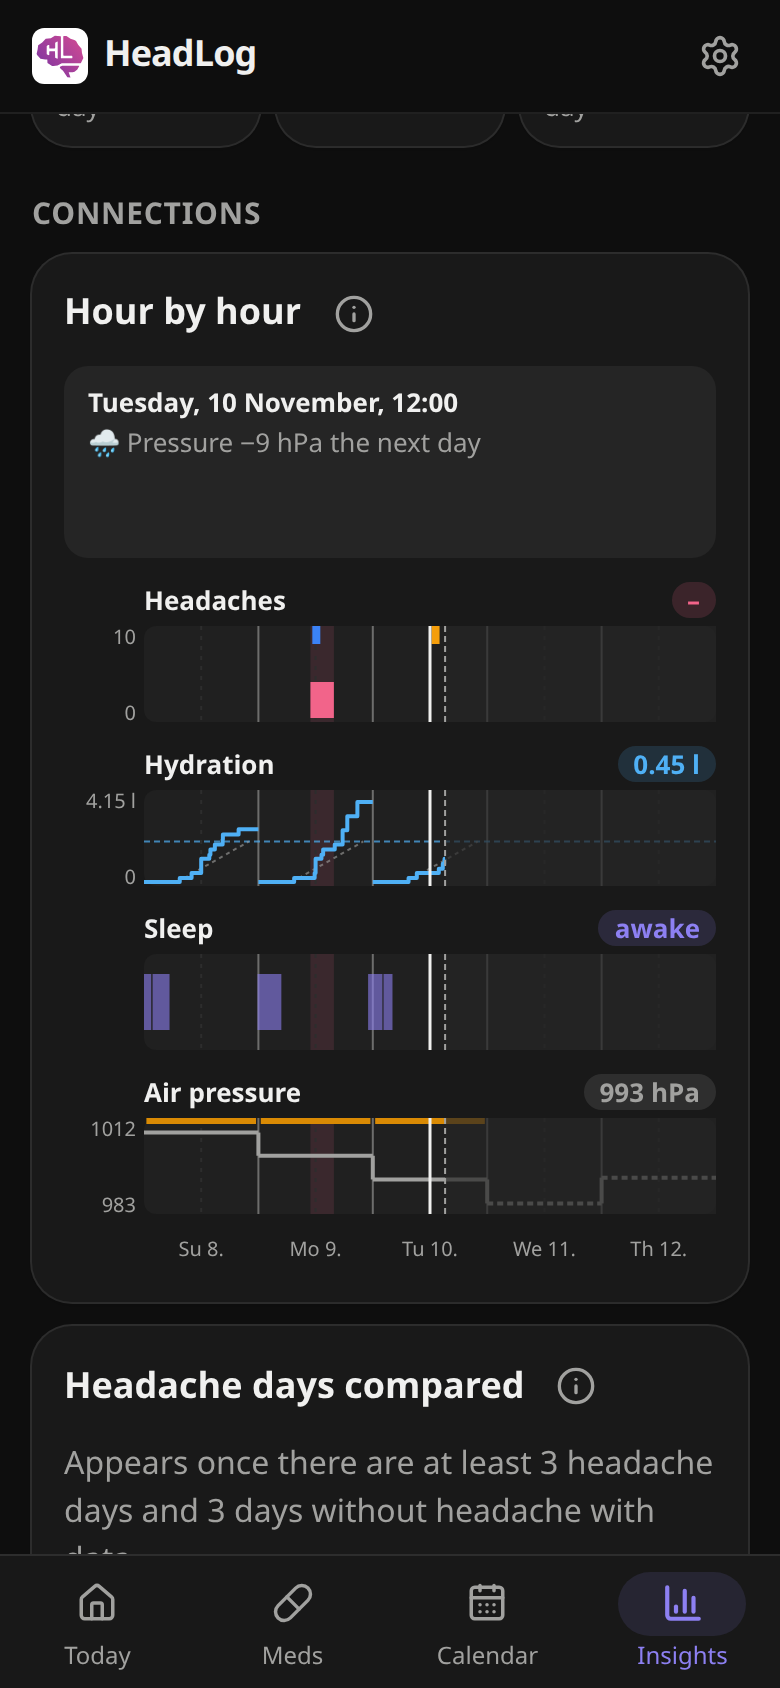
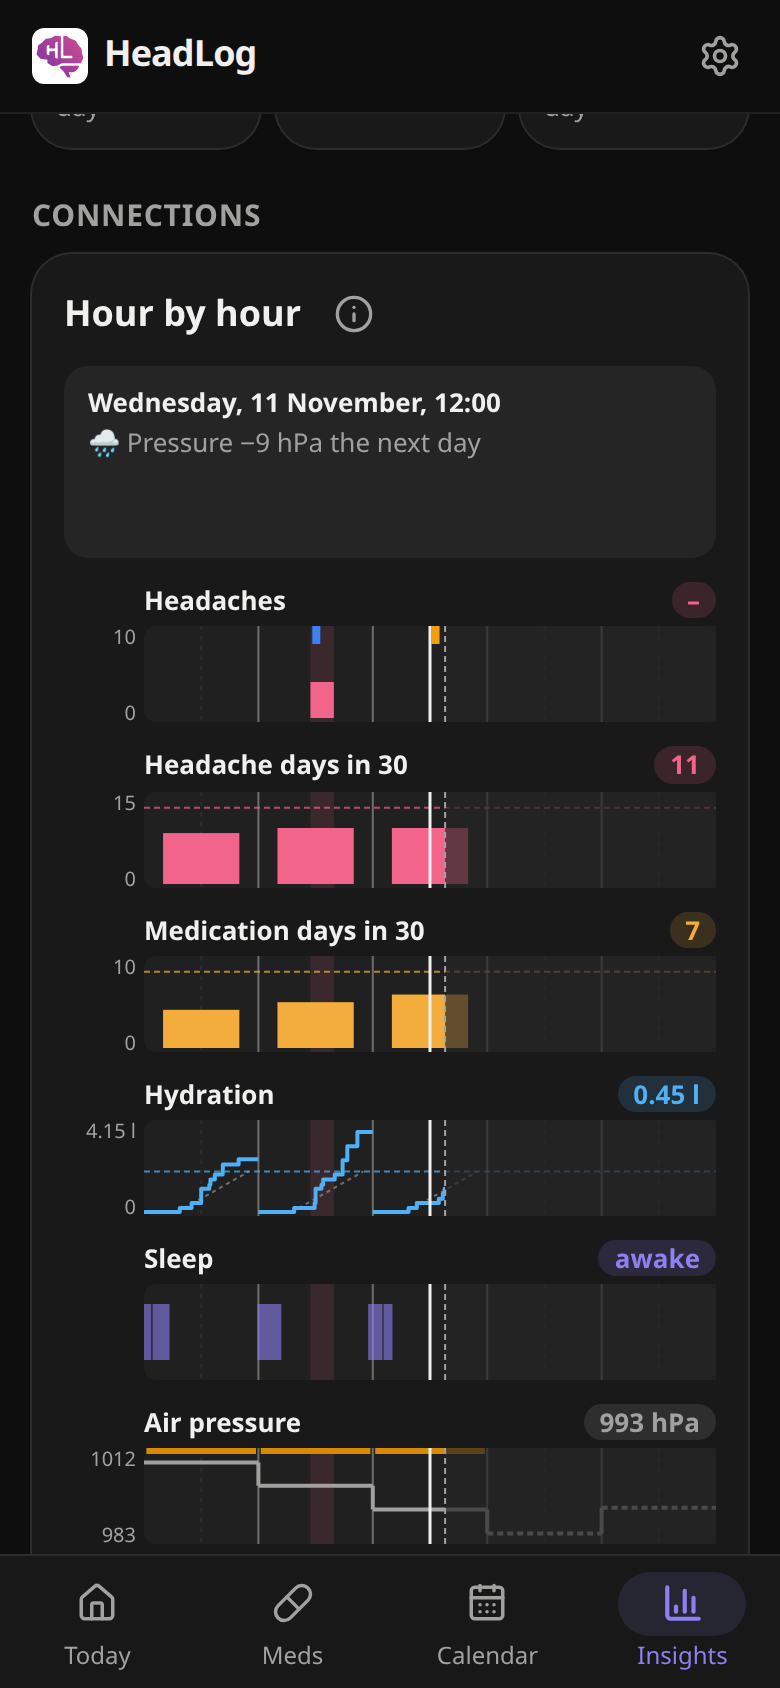
Night end choices, days in 30 as timeline rows (#124)
The sleep editor offers the start of each wake break in the second half
of the night as the end of the night, next to the start choices. Wake
breaks after the chosen end are set aside until saving. The wake break
list gets its own heading.

Headache and medication days in 30 become rows of the Insights timeline
and of the hour view instead of a separate card. Release 0.35.0.

diff --git a/src/lib/components/SleepTimeline.svelte b/src/lib/components/SleepTimeline.svelte
@@ -9,7 +9,7 @@
   import type { Night } from '$lib/db';
   import { formatDuration, hm, HOUR, MINUTE } from '$lib/days';
   import { t } from '$lib/i18n.svelte';
-  import { FALL_ASLEEP_OPTIONS, nightSpan, nightStartChoices, onPeriods, screenEvents, sleepSegments, splitBreaksAt, startForChoice, typedSleepTime } from '$lib/sleep';
+  import { FALL_ASLEEP_OPTIONS, nightEndChoices, nightSpan, nightStartChoices, onPeriods, screenEvents, sleepSegments, splitBreaks, startForChoice, typedSleepTime } from '$lib/sleep';
   import { data } from '$lib/store.svelte';
   import { tap } from '$lib/ui.svelte';
 
@@ -72,6 +72,7 @@
     const i = selected ?? 0;
     const before = Math.floor(time / (15 * MINUTE));
     if (handle === 'start') chosen = null;
+    if (handle === 'end') chosenEnd = null;
     if (handle === 'start') night.start = clamp(time, span.from, (b[0]?.start ?? night.end) - MIN_GAP);
     if (handle === 'end') night.end = clamp(time, (b.at(-1)?.end ?? night.start) + MIN_GAP, span.to);
     if (handle === 'breakStart') b[i].start = clamp(time, (i ? b[i - 1].end : night.start) + MIN_GAP, b[i].end - MIN_GAP);
@@ -163,8 +164,23 @@
 
   function startAt(time: number) {
     tap();
-    ({ breaks: night.breaks, parked } = splitBreaksAt(night.breaks, parked, time));
+    ({ breaks: night.breaks, parked } = splitBreaks(night.breaks, parked, time, night.end));
     night.start = time;
+    select(null);
+  }
+
+  /** Where the night may have ended: the estimate, or the start of a wake break, as the editor opened. */
+  const baseEndChoices = nightEndChoices(night);
+  /** The end choice the night follows, by its time; null once the end is set by hand. */
+  let chosenEnd = $state<number | null>(night.end);
+  /** The end choices that leave at least 20 minutes of sleep after the start. */
+  const endChoices = $derived(baseEndChoices.filter((c) => c.time - night.start >= MIN_FIRST_SLEEP));
+
+  function endAt(time: number) {
+    tap();
+    chosenEnd = time;
+    ({ breaks: night.breaks, parked } = splitBreaks(night.breaks, parked, night.start, time));
+    night.end = time;
     select(null);
   }
 </script>
@@ -204,19 +220,31 @@
     </select>
   </label>
 
-  {#if baseChoices.length > 1 && startChoices.length}
-    <div class="-mt-1 flex flex-wrap items-center gap-2">
-      <span class="text-xs text-muted">{t('sleep.startedAt')}</span>
-      {#each startChoices as choice (choice.time)}
-        <button
-          class="press min-h-9 rounded-full px-3 text-sm font-medium tabular {night.start === choice.time ? 'bg-primary text-primary-fg' : 'bg-surface-2'}"
-          onclick={() => choose(choice.index)}
-          aria-pressed={night.start === choice.time}
-        >
-          {hm(choice.time)}
-          <span class="font-normal opacity-80">· {choice.awake ? t('sleep.afterAwake', { d: formatDuration(choice.awake) }) : t('sleep.estimated')}</span>
-        </button>
-      {/each}
+  {#snippet choice(time: number, note: string, active: boolean, onpick: () => void)}
+    <button
+      class="press flex min-h-11 flex-col items-start rounded-xl px-3 py-1.5 text-left tabular {active ? 'bg-primary text-primary-fg' : 'bg-surface-2'}"
+      onclick={onpick}
+      aria-pressed={active}
+    >
+      <span class="font-semibold">{hm(time)}</span>
+      <span class="text-xs leading-tight opacity-80">{note}</span>
+    </button>
+  {/snippet}
+
+  {#if (baseChoices.length > 1 && startChoices.length) || endChoices.length > 1}
+    <div class="-mt-1 grid grid-cols-2 gap-3">
+      <div class="flex min-w-0 flex-col gap-1.5">
+        <span class="text-xs text-muted">{t('sleep.startedAt')}</span>
+        {#each startChoices as c (c.time)}
+          {@render choice(c.time, c.awake ? t('sleep.afterAwake', { d: formatDuration(c.awake) }) : t('sleep.estimated'), night.start === c.time, () => choose(c.index))}
+        {/each}
+      </div>
+      <div class="flex min-w-0 flex-col gap-1.5">
+        <span class="text-xs text-muted">{t('sleep.endedAt')}</span>
+        {#each endChoices as c (c.time)}
+          {@render choice(c.time, c.earlier ? t('sleep.earlier', { d: formatDuration(c.earlier) }) : t('sleep.estimated'), chosenEnd === c.time, () => endAt(c.time))}
+        {/each}
+      </div>
     </div>
   {/if}
 
@@ -280,7 +308,8 @@
     {@render axis(span, 2 * HOUR, 'H')}
 
     {#if night.breaks.length}
-      <div class="mt-2 flex flex-wrap gap-2">
+      <p class="mt-3 mb-1.5 text-xs text-muted">{t('sleep.editBreaks')}</p>
+      <div class="flex flex-wrap items-center gap-2">
         {#each night.breaks as b, i (i)}
           <button
             class="press min-h-11 rounded-full px-3 py-1.5 text-sm font-medium tabular {selected === i ? 'bg-caution text-white' : 'bg-caution/15 text-caution'}"

diff --git a/src/lib/components/InsightsTab.svelte b/src/lib/components/InsightsTab.svelte
@@ -86,7 +86,7 @@
       keys[keys.length - 1] === today ? t('cal.rollingNow', { n: counts[counts.length - 1] }) : t('cal.rollingOn', { n: counts[counts.length - 1], date: fmt(last, 'd. MMM') });
     return [
       {
-        label: t('cal.headacheDaysRow'),
+        label: t('tl.headacheDays30'),
         summary: lastCount(headache),
         values: [...headache, ...ahead],
         colors: [...headache.map((n) => (n >= CHRONIC_DAYS ? 'var(--color-over)' : 'var(--color-pain)')), ...ahead.map(() => 'var(--color-pain)')],
@@ -96,7 +96,7 @@
         reference: CHRONIC_DAYS
       },
       {
-        label: t('cal.medDays'),
+        label: t('tl.medDays30'),
         summary: lastCount(med),
         values: [...med, ...ahead],
         colors: [...med.map((n) => RULE_COLOR[ruleStatus(n, rule.allowed)]), ...ahead.map(() => 'var(--color-med)')],
@@ -108,9 +108,14 @@
     ];
   });
 
+  /** What the two rows of days in 30 mean, for the timeline's (i). */
+  const rollingInfo = $derived([t('cal.rollingHint', { n: CHRONIC_DAYS }), t('cal.rollingMedHint', { n: data.settings.limit })]);
+  const rollingSources = [...SOURCES.chronic, ...SOURCES.medication];
+
   const rows = $derived.by(() => {
     const result: Row[] = [
-      { key: 'headache', label: t('tl.headache'), summary: t('tl.days', { n: stats.headacheDays }), values: series.headache, color: 'var(--color-pain)', kind: 'bars', format: (v) => (v ? `${Math.round(v)}/10` : '–') }
+      { key: 'headache', label: t('tl.headache'), summary: t('tl.days', { n: stats.headacheDays }), values: series.headache, color: 'var(--color-pain)', kind: 'bars', format: (v) => (v ? `${Math.round(v)}/10` : '–') },
+      ...rollingRows
     ];
     const water = known(series.hydration);
     if (water.length) {
@@ -223,15 +228,6 @@
         </div>
       {/each}
     </section>
-    <section class="card p-4">
-      <CardHeading
-        class="mb-3"
-        title={t('cal.rolling')}
-        info={[t('cal.rollingHint', { n: CHRONIC_DAYS }), t('cal.rollingMedHint', { n: data.settings.limit })]}
-        sources={[...SOURCES.chronic, ...SOURCES.medication]}
-      />
-      <TimelineChart showLast rows={rollingRows} keys={chartKeys} forecast={forecastKeys.length} bands={series.headache.map((v) => v > 0)} />
-    </section>
 
     {@render heading(t('ins.dailyAverages'))}
     <section class="grid grid-cols-3 gap-2">
@@ -250,10 +246,10 @@
     {@render heading(t('ins.connections'))}
     <section class="card p-4">
       {#if span <= HOUR_VIEW_DAYS}
-        <CardHeading class="mb-3" title={t('hv.title')} info={t('hv.hint')} />
+        <CardHeading class="mb-3" title={t('hv.title')} info={[t('hv.hint'), ...rollingInfo]} sources={rollingSources} />
         <HourTimeline {rows} keys={chartKeys} now={clock.now} />
       {:else}
-        <CardHeading class="mb-3" title={t('tl.title')} info={t('tl.hint')} />
+        <CardHeading class="mb-3" title={t('tl.title')} info={[t('tl.hint'), ...rollingInfo]} sources={rollingSources} />
         <TimelineChart {rows} keys={chartKeys} forecast={chartKeys.length - keys.length} bands={series.headache.map((v) => v > 0)} details={dayDetails} />
       {/if}
     </section>

diff --git a/src/lib/components/HourTimeline.svelte b/src/lib/components/HourTimeline.svelte
@@ -96,6 +96,16 @@
     return { values: values.filter((v) => row(v.key)), details };
   });
 
+  /** Rows the hour view has no hourly data for, drawn as one bar per day. */
+  const dailyRows = $derived(rows.filter((r) => r.key === undefined));
+  const dailyScale = (r: Row) => Math.max(r.reference ?? 0, ...r.values.map((v) => v ?? 0), 1) * 1.1;
+  const shownDay = $derived(shown === null ? -1 : keys.indexOf(dayKey(shown)));
+  const dailyValue = (r: Row) => {
+    if (shownDay < 0) return undefined;
+    const v = r.values[shownDay];
+    return v === null ? '–' : r.format(v);
+  };
+
   /** Every readout line is one line of 1.25rem: the date and three detail lines, so the box never changes height. */
   const DETAIL_LINES = 3;
   const boxHeight = (1 + DETAIL_LINES) * 1.25 + 1;
@@ -103,11 +113,12 @@
 </script>
 
 {#snippet frame(r: Row, content: Snippet, axis: [string, string])}
+  {@const value = r.key ? valueOf(r.key) : dailyValue(r)}
   <div class="flex flex-col gap-1">
     <div class="flex items-baseline gap-x-2 pl-10 text-xs whitespace-nowrap">
       <span class="shrink-0 font-semibold">{r.label}</span>
-      {#if valueOf(r.key) !== undefined}
-        <span class="ml-auto shrink-0 rounded-full px-2 font-semibold tabular" style:color={r.color} style:background-color="color-mix(in oklab, {r.color} 16%, transparent)">{valueOf(r.key)}</span>
+      {#if value !== undefined}
+        <span class="ml-auto shrink-0 rounded-full px-2 font-semibold tabular" style:color={r.color} style:background-color="color-mix(in oklab, {r.color} 16%, transparent)">{value}</span>
       {:else}
         <span class="ml-auto min-w-0 truncate text-muted tabular">{r.summary}</span>
       {/if}
@@ -196,6 +207,20 @@
   {/each}
 {/snippet}
 
+{#snippet daily(r: Row)}
+  {@const max = dailyScale(r)}
+  {@const y = (v: number) => H - 2 - (v / max) * (H - 6)}
+  {#if r.reference !== undefined}
+    <line x1="0" x2={width} y1={y(r.reference)} y2={y(r.reference)} stroke={r.color} stroke-width="1" stroke-dasharray="3 2" opacity="0.7" vector-effect="non-scaling-stroke" />
+  {/if}
+  {#each days as d, i (d.key)}
+    {@const v = r.values[i]}
+    {#if v !== null && v !== undefined}
+      <rect x={x(d.start) + 4} width="16" y={y(v)} height={H - 2 - y(v)} fill={r.colors?.[i] ?? r.color} />
+    {/if}
+  {/each}
+{/snippet}
+
 {#snippet air()}
   {#each pressure as p, i (p.start)}
     {@const prev = pressure[i - 1]}
@@ -234,6 +259,10 @@
   </div>
 
   {#if row('headache')}{@render frame(row('headache')!, headache, ['10', '0'])}{/if}
+  {#each dailyRows as r (r.label)}
+    {#snippet bars()}{@render daily(r)}{/snippet}
+    {@render frame(r, bars, [String(r.reference ?? Math.round(dailyScale(r))), '0'])}
+  {/each}
   {#if row('hydration')}{@render frame(row('hydration')!, hydration, [formatLiters(waterMax), '0'])}{/if}
   {#if row('sleep')}{@render frame(row('sleep')!, sleep, ['', ''])}{/if}
   {#if row('pressure') && pressure.length}

diff --git a/src/lib/i18n/de.ts b/src/lib/i18n/de.ts
@@ -77,7 +77,6 @@ export const de: Record<keyof typeof en, string> = {
   'cal.unfavourable': 'ungünstig',
   'cal.factorHint': 'Ein Symbol in der Ecke markiert einen Tag, an dem dieser Faktor ungünstig war, nach derselben Regel wie in der Prognose unter Heute: 🌦 Wetter, 😴 Schlaf, 💧 Trinkziel verfehlt, ☕ Koffein, 🍷 Alkohol.',
   'cal.headacheDays': 'Kopfschmerztage',
-  'cal.headacheDaysRow': 'Kopfschmerztage',
   'range.title': 'Zeitraum wählen',
   'range.pickEnd': 'Tippe auf den letzten Tag',
   'range.again': 'Neu tippen startet von vorn',
@@ -87,7 +86,6 @@ export const de: Record<keyof typeof en, string> = {
   'range.day': '1 Tag',
   'cal.medDays': 'Medikamententage',
   'cal.medsHint': 'Punkte: Medikament genommen, in seiner Farbe; grau, wenn es nicht für die 10/20-Regel zählt. Tippe auf einen Tag für Details.',
-  'cal.rolling': 'Tage in den letzten 30',
   'cal.rollingMedHint': 'Medikamententage zählen Akutmedikamente; Prophylaxe zählt nicht. Ab {n} Tagen in 30 ist die 10/20-Regel überschritten.',
   'cal.rollingHint': 'Jeder Balken zählt die Kopfschmerztage in den 30 Tagen bis zu diesem Tag. Die internationale Kopfschmerz-Klassifikation (ICHD-3) nennt Migräne und Spannungskopfschmerz chronisch ab {n} Kopfschmerztagen im Monat über mehr als 3 Monate.',
   'cal.rollingNow': 'heute {n}',
@@ -234,6 +232,8 @@ export const de: Record<keyof typeof en, string> = {
   'tl.tapHint': 'Tippe auf ein Diagramm für einen Tag.',
   'tl.detailHeadache': '⚡ Kopfschmerz {from}–{to}, Stärke {n}',
   'tl.detailDrop': '🌧 Luftdruck am Folgetag −{n} hPa',
+  'tl.headacheDays30': 'Kopfschmerztage in 30',
+  'tl.medDays30': 'Medikamententage in 30',
   'tl.hint': 'Rote Bänder markieren Kopfschmerztage. Schau, was kurz davor los war. Orange über dem Luftdruck markiert Tage, nach denen das Tagesmittel um mehr als 5 hPa fällt: die Tage, die die Prognose als ungünstig zählt.',
   'tl.headache': 'Kopfschmerz',
   'tl.days': '{n} Tage',
@@ -307,6 +307,9 @@ export const de: Record<keyof typeof en, string> = {
   'sleep.startedAt': 'Nacht begann',
   'sleep.afterAwake': 'nach {d} wach',
   'sleep.estimated': 'geschätzt',
+  'sleep.endedAt': 'Nacht endete',
+  'sleep.earlier': '{d} früher',
+  'sleep.editBreaks': 'Wachphasen bearbeiten',
   'sleep.fallAsleep': 'Einschlafen nach Bildschirm aus',
   'sleep.fallAsleepSetting': 'Zeit zum Einschlafen nach Bildschirm aus',
   'sleep.minutes': '{n} Min.',

diff --git a/src/lib/sleep.test.ts b/src/lib/sleep.test.ts
@@ -1,5 +1,5 @@
 import { describe, expect, it } from 'vitest';
-import { awakeMs, defaultNight, estimateNight, manualNight, nightSpan, nightStartChoices, onPeriods, sleepSegments, splitBreaksAt, startForChoice, typedSleepTime, type ScreenEvent } from './sleep';
+import { awakeMs, defaultNight, estimateNight, manualNight, nightEndChoices, nightSpan, nightStartChoices, onPeriods, sleepSegments, splitBreaks, startForChoice, typedSleepTime, type ScreenEvent } from './sleep';
 
 const at = (s: string) => new Date(s).getTime();
 const off = (s: string): ScreenEvent => ({ time: at(s), on: false });
@@ -175,7 +175,7 @@ describe('estimateNight at the limits', () => {
   });
 });
 
-describe('nightStartChoices and splitBreaksAt', () => {
+describe('nightStartChoices, nightEndChoices and splitBreaks', () => {
   const H = 3600000;
   const night = { start: 0, breaks: [{ start: 0.5 * H, end: 1.7 * H }, { start: 4 * H, end: 4.1 * H }] };
 
@@ -184,9 +184,24 @@ describe('nightStartChoices and splitBreaksAt', () => {
   });
 
   it('sets wake breaks before a later start aside and brings them back for the earlier one', () => {
-    const later = splitBreaksAt(night.breaks, [], 1.7 * H);
-    const back = splitBreaksAt(later.breaks, later.parked, 0);
+    const later = splitBreaks(night.breaks, [], 1.7 * H, 8 * H);
+    const back = splitBreaks(later.breaks, later.parked, 0, 8 * H);
     expect([later.breaks.length, later.parked.length, back.breaks]).toEqual([1, 1, night.breaks]);
+  });
+
+  it('offers the start of each wake break in the second half of the night as the end, latest first', () => {
+    const late = { start: 6 * H, end: 6.5 * H };
+    expect(nightEndChoices({ start: 0, end: 8 * H, breaks: [...night.breaks, late] })).toEqual([
+      { time: 8 * H, earlier: 0 },
+      { time: 6 * H, earlier: 2 * H },
+      { time: 4 * H, earlier: 4 * H }
+    ]);
+  });
+
+  it('sets wake breaks after an earlier end aside and brings them back for the later one', () => {
+    const earlier = splitBreaks(night.breaks, [], 0, 4 * H);
+    const back = splitBreaks(earlier.breaks, earlier.parked, 0, 8 * H);
+    expect([earlier.breaks, earlier.parked, back.breaks]).toEqual([[night.breaks[0]], [night.breaks[1]], night.breaks]);
   });
 });
 

diff --git a/src/lib/i18n/en.ts b/src/lib/i18n/en.ts
@@ -75,7 +75,6 @@ export const en = {
   'cal.unfavourable': 'unfavourable',
   'cal.factorHint': 'A symbol in the corner marks a day on which that factor was unfavourable, by the same rule as in the forecast on Today: 🌦 weather, 😴 sleep, 💧 hydration goal missed, ☕ caffeine, 🍷 alcohol.',
   'cal.headacheDays': 'headache days',
-  'cal.headacheDaysRow': 'Headache days',
   'range.title': 'Choose period',
   'range.pickEnd': 'Tap the last day',
   'range.again': 'Tap a day to start over',
@@ -85,7 +84,6 @@ export const en = {
   'range.day': '1 day',
   'cal.medDays': 'Medication days',
   'cal.medsHint': 'Dots: medication taken, in its colour; grey when it does not count for the 10/20 rule. Tap a day for details.',
-  'cal.rolling': 'Days in the last 30',
   'cal.rollingMedHint': 'Medication days count acute medication; preventive medication does not count. From {n} days in 30, the 10/20 rule is over the limit.',
   'cal.rollingHint': 'Each bar counts the headache days in the 30 days up to that day. The international headache classification (ICHD-3) calls migraine and tension-type headache chronic from {n} headache days a month for more than 3 months.',
   'cal.rollingNow': 'today {n}',
@@ -232,6 +230,8 @@ export const en = {
   'tl.tapHint': 'Tap a chart to see a day.',
   'tl.detailHeadache': '⚡ Headache {from}–{to}, intensity {n}',
   'tl.detailDrop': '🌧 Pressure −{n} hPa the next day',
+  'tl.headacheDays30': 'Headache days in 30',
+  'tl.medDays30': 'Medication days in 30',
   'tl.hint': 'Red bands mark headache days. Look at what happened just before them. Orange above the air pressure marks days before the daily mean falls by more than 5 hPa: the days the forecast counts as unfavourable.',
   'tl.headache': 'Headaches',
   'tl.days': '{n} days',
@@ -305,6 +305,9 @@ export const en = {
   'sleep.startedAt': 'Night began',
   'sleep.afterAwake': 'after {d} awake',
   'sleep.estimated': 'estimated',
+  'sleep.endedAt': 'Night ended',
+  'sleep.earlier': '{d} earlier',
+  'sleep.editBreaks': 'Edit wake periods',
   'sleep.fallAsleep': 'Falling asleep after the screen is off',
   'sleep.fallAsleepSetting': 'Time to fall asleep after the screen is off',
   'sleep.minutes': '{n} min',

diff --git a/src/lib/sleep.ts b/src/lib/sleep.ts
@@ -198,13 +198,21 @@ export function nightStartChoices(night: Pick<Night, 'start' | 'breaks'>, minBre
   return [{ time: night.start, awake: 0 }, ...night.breaks.filter((b) => b.end - b.start >= minBreak).map((b) => ({ time: b.end, awake: b.end - b.start }))];
 }
 
+/** Where a night may really have ended: the estimate, or the start of each wake break in the second half of the night. */
+export function nightEndChoices(night: Pick<Night, 'start' | 'end' | 'breaks'>): { time: number; earlier: number }[] {
+  const middle = (night.start + night.end) / 2;
+  const late = night.breaks.filter((b) => b.start >= middle);
+  return [{ time: night.end, earlier: 0 }, ...late.map((b) => ({ time: b.start, earlier: night.end - b.start }))].sort((a, b) => b.time - a.time);
+}
+
 /**
- * The wake breaks of a night that starts at `time`, and those before it, which are set aside rather than
- * dropped so that another start can bring them back.
+ * The wake breaks of a night from `from` to `to`, and those outside it, which are set aside rather than
+ * dropped so that another start or end can bring them back.
  */
-export function splitBreaksAt(breaks: { start: number; end: number }[], parked: { start: number; end: number }[], time: number) {
+export function splitBreaks(breaks: { start: number; end: number }[], parked: { start: number; end: number }[], from: number, to: number) {
   const all = [...breaks, ...parked].sort((a, b) => a.start - b.start);
-  return { breaks: all.filter((b) => b.start >= time), parked: all.filter((b) => b.start < time) };
+  const inside = (b: { start: number; end: number }) => b.start >= from && b.end <= to;
+  return { breaks: all.filter(inside), parked: all.filter((b) => !inside(b)) };
 }
 
 /**

diff --git a/src/lib/components/TimelineChart.svelte b/src/lib/components/TimelineChart.svelte
@@ -1,6 +1,6 @@
 <script lang="ts" module>
   export interface Row {
-    /** Which series this is, so the hour view can draw it. */
+    /** Which series this is, so the hour view can draw it; without a key the hour view draws one bar per day. */
     key?: 'headache' | 'hydration' | 'sleep' | 'pressure';
     label: string;
     summary: string;

diff --git a/README.md b/README.md
@@ -25,8 +25,8 @@
 - **10/20 rule.** Take acute headache medication on fewer than 10 out of any 30 days, as the German migraine guideline (DGN/DMKG) advises. HeadLog shows your current count, what taking something today would mean, when the next medication day drops out of the window, and the overuse limits per medication type (ICHD-3) over the last 30 days, each as a wheel. Preventive medication doesn't count. The limit is configurable.
 - **Forecast traffic light** on Today with five factors as tiles: weather (a pressure drop of more than 5 hPa from today to tomorrow), hydration (yesterday, and today against your pace), last night's sleep (under 5 hours, or asleep under 85 % of the night), alcohol and a drop in caffeine. Green with no unfavourable factor, yellow with one, red with two or more. Tap a tile for its chart, the key numbers and a tip; its (i) gives the rule, what studies show and the full references.
 - **Tomorrow's risk** as a row under the tiles, and an optional evening notification when tomorrow does not look green. It counts only what matters for tomorrow: a pressure drop from tomorrow to the day after, too little to drink today and alcohol today. Settings shows what tonight's warning will say.
-- **Weather and sleep:** daily weather at your home town (Open-Meteo, only the town's coordinates are sent) and a sleep estimate from screen activity, with wake breaks. Each morning Today shows last night with Looks right / Correct until it is confirmed, and an optional notification asks the same. The sleep editor is a timeline: drag falling asleep and waking up, tap a wake break to edit it magnified, and see when the screen was on.
-- **Insights** over 3, 7 or 30 days or a range you choose, with headache and medication days per 30 days and a chart of headache and medication days in the 30 days up to each day: a timeline of headaches, hydration, sleep and air pressure, hour by hour for 3 and 7 days, running on into the pressure forecast. Tap or drag across it to see the values at that moment and what happened around it. Orange marks the days before a pressure drop. Also a comparison of headache days with other days, headache and medication days per month, average duration and intensity, weekdays and times of day headaches start, how well each medication helped, and your most common triggers.
+- **Weather and sleep:** daily weather at your home town (Open-Meteo, only the town's coordinates are sent) and a sleep estimate from screen activity, with wake breaks. Each morning Today shows last night with Looks right / Correct until it is confirmed, and an optional notification asks the same. The sleep editor is a timeline: drag falling asleep and waking up, or pick where the night began (after a longer wake break) and ended (at a wake break in the second half of the night), tap a wake break to edit it magnified, and see when the screen was on.
+- **Insights** over 3, 7 or 30 days or a range you choose, with headache and medication days per 30 days: a timeline of headaches, headache and medication days in the 30 days up to each day, hydration, sleep and air pressure, hour by hour for 3 and 7 days, running on into the pressure forecast. Tap or drag across it to see the values at that moment and what happened around it. Orange marks the days before a pressure drop. Also a comparison of headache days with other days, headache and medication days per month, average duration and intensity, weekdays and times of day headaches start, how well each medication helped, and your most common triggers.
 - **Doctor report (PDF)** on one page for 1 to 12 months, from Insights or Settings: key figures, a headache calendar, charts of headache and medication days per month and of the 10/20 rule over time, medication with how often it helped and your limits, and the most common triggers. CSV with every entry for the same period.
 - **Personal limits per medication**, e.g. at most 5 triptan days in any 30 days, shown on the button, in the Meds tab and in the report.
 - **Reminders:** after taking medication, a question whether it helped (default after one hour; answer right in the notification), during a headache a question every few hours whether it is still there, reminders at noon and in the evening if you are behind your hydration goal, and, if you like, a reminder to drink when you have not logged a drink for a while (default: 2 hours, between 8:00 and 20:00).

diff --git a/CHANGELOG.md b/CHANGELOG.md
@@ -2,6 +2,13 @@
 
 ## [Unreleased]
 
+## [0.35.0] - 2026-11-11
+
+### Changed
+
+- Sleep editor: Night began and Night ended side by side. The end of the night can be set to the start of a wake break in the second half of the night; wake breaks after it are set aside until saving, so choosing the estimate brings them back. The wake breaks below the bar sit under "Edit wake periods".
+- Insights: headache days and medication days in 30 are rows of the timeline, under Headaches, instead of a separate card. The hour view shows them as one bar per day.
+
 ## [0.34.0] - 2026-11-11
 
 ### Changed
